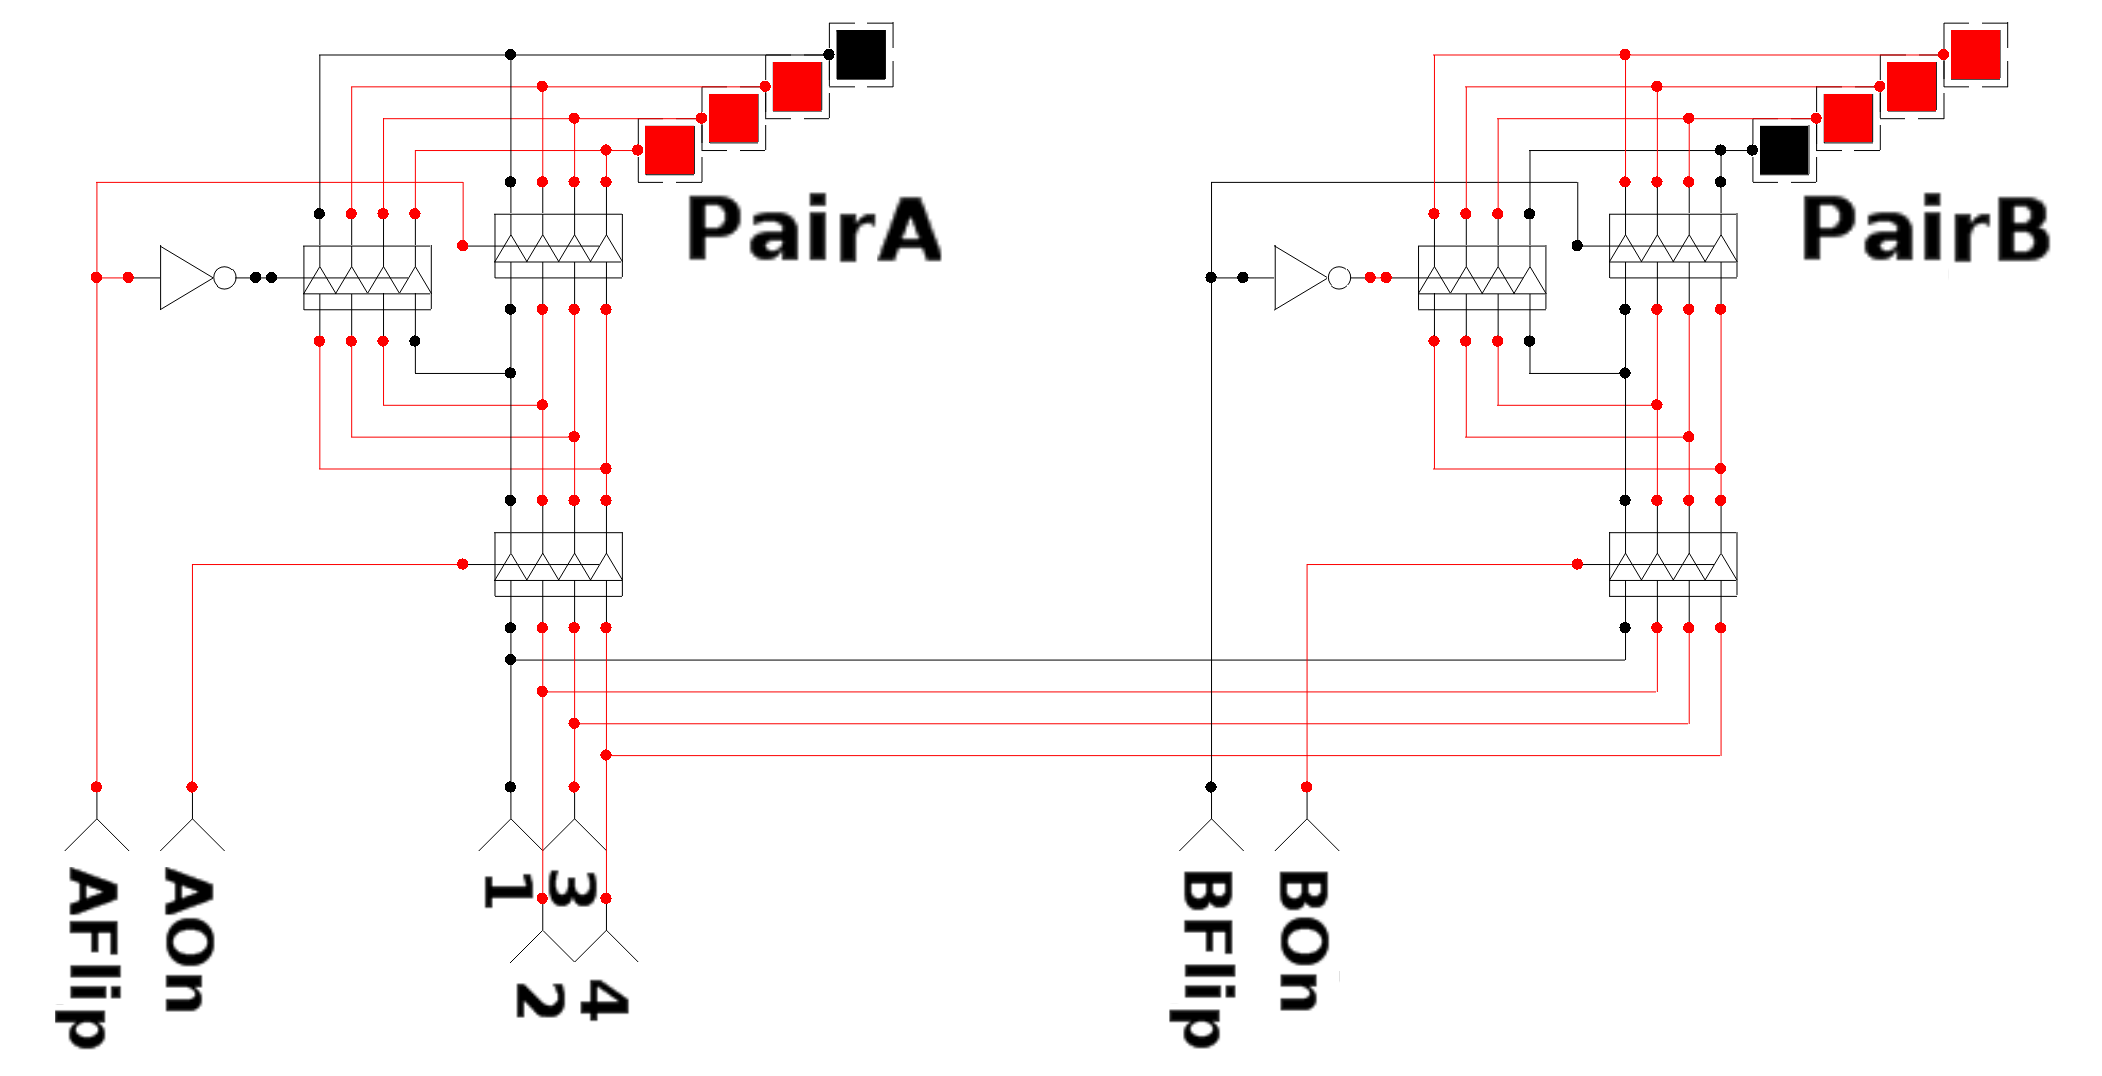
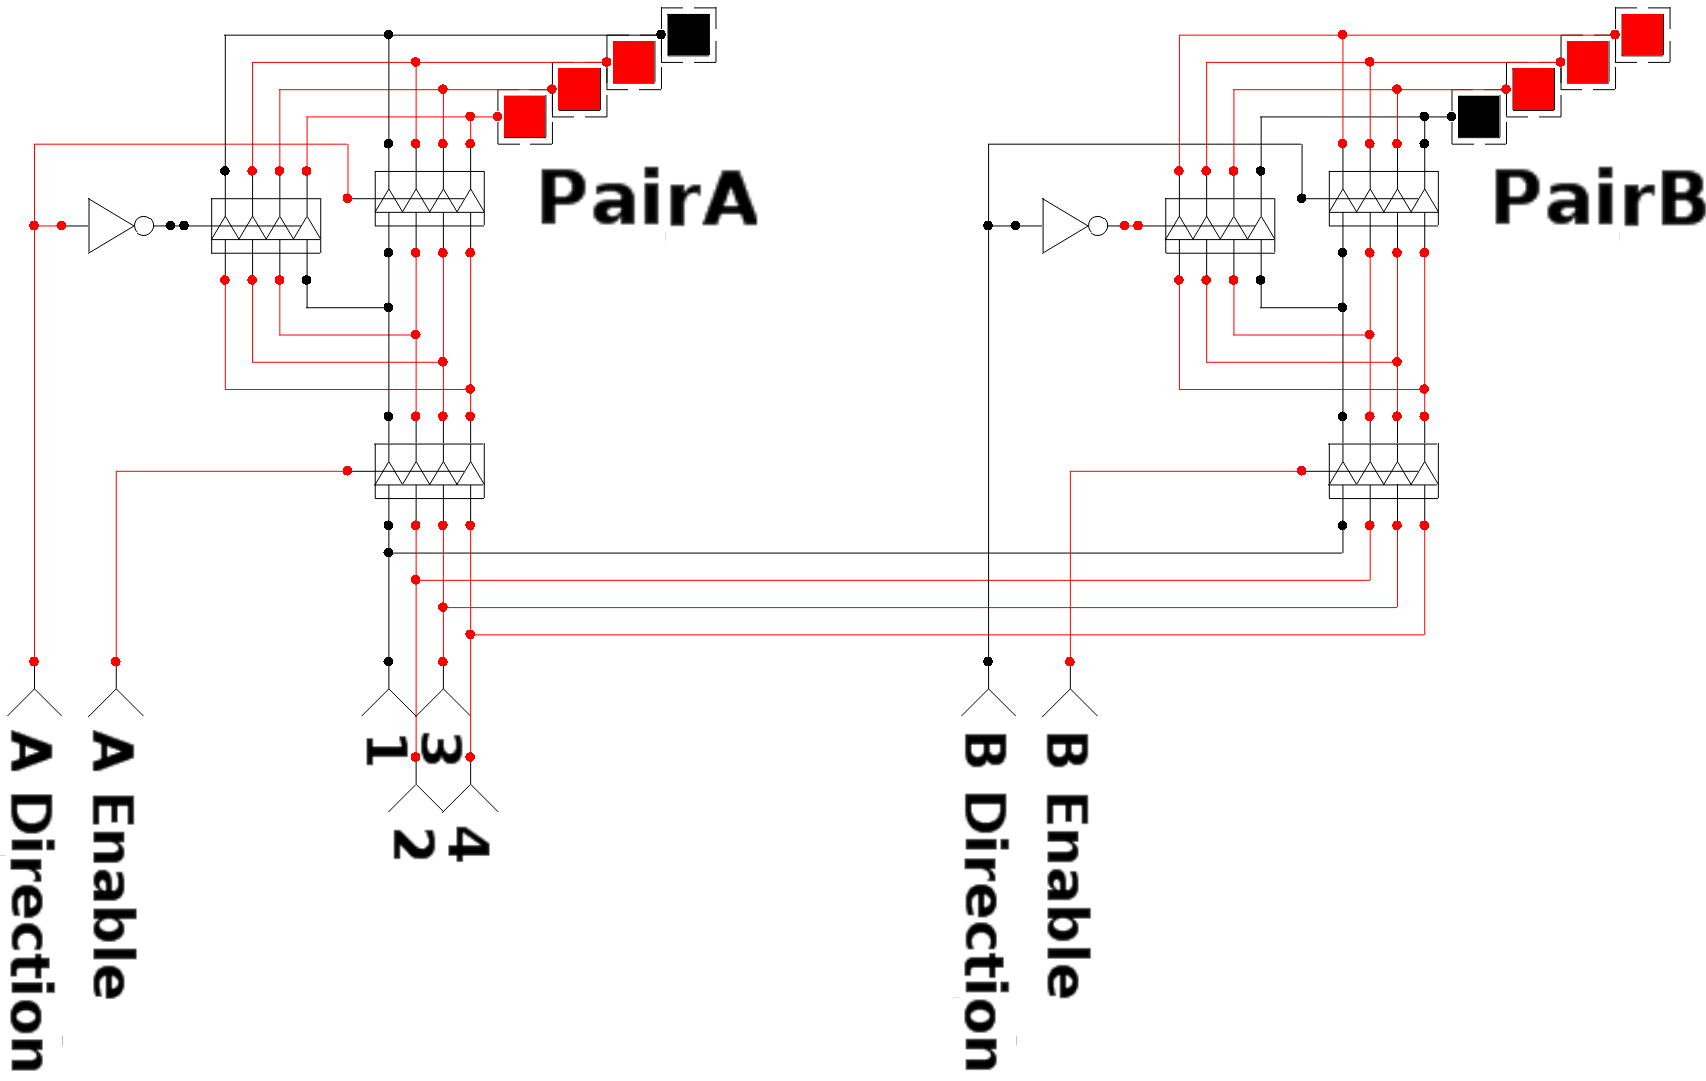
wrote some direction control

diff --git a/Report/sections/movement.tex b/Report/sections/movement.tex
@@ -467,20 +467,18 @@ thoroughly. The reason for this, was that we wanted to test the movement system 
 microcontroller in the beginning, specifically the MSP430, which had fewer pins available.
 
 
-Figure \ref{fig:mot_ctrl} represents a schematic of the movement circuit. We have used 6 Tri-State 
-buffers, 4 active high, and 2 active low. 
-%Table \ref{table:directions} explains which pairs need to be activated, and their rotational 
-%direction, in order to achieve the desired movement.
+Figure \ref{fig:mot_ctrl} represents a schematic of the movement circuit. We have used six Tri-State 
+buffers, four active high, and two active low. 
 \begin{figure}[htp]
 	\centering
-	\includegraphics[width=0.9\textwidth]{figures/move/direction_choice}
+	\includegraphics[width=0.8\textwidth]{figures/move/direction_choice}
 	\caption{Motor Control Circuit}
 	\label{fig:mot_ctrl}
 \end{figure}
 
-The 4 wires coming from the microcontroller, labeled '1', '2', '3' and '4' correspond to the stepping sequence.
-They are each connected to 2 Tri-State Buffer corresponding to each pair of motors. One pair of motors consists 
-of 2 motors. The pairs are represented in Figure \ref{fig:motor_pairs_location}.
+The four wires coming from the microcontroller, labeled '1', '2', '3' and '4' correspond to the stepping sequence.
+They are each connected to two Tri-State buffers corresponding to each pair of motors. One pair of motors consists 
+of two motors. The pairs are represented in Figure \ref{fig:motor_pairs_location}.
 
 \begin{figure}[htp]
 	\centering
@@ -488,30 +486,40 @@ of 2 motors. The pairs are represented in Figure \ref{fig:motor_pairs_location}.
 	\caption{Motor Pairs}
 	\label{fig:motor_pairs_location}
 \end{figure}
+
 \clearpage
-The first two Tri-State buffers, decide whether the pair is needed for moving in a specific 
-direction. When moving diagonally, only when pair of motors is needed at a time. Deciding 
-which direction the motors should spin in, is up to the following 2 Tri-State buffers, 
-one active-low and one active-high. Giving a ‘High’ signal, activates the active-high 
-buffer, and deactivates the active-low buffer. Giving a ‘Low’ signal, activates the 
-active-low buffer, and deactivates the active-high buffer. 
+The first two Tri-State buffers, decide whether the pair is needed for moving in 
+a specific direction. The input pins, labeled ‘A Enable’ and ‘B Enable’ go to the 
+two Tri-State buffers connected to each motor pair. 
 
-When spinning in one direction, the two opposite motors that make a pair, spin in opposite 
-directions. For example, when moving North-East, only Pair A moves. Motor labeled A spins 
-counter-clockwise, and motor labeled A’ moves clockwise. This was a necessity, considering the 
-placement of the wheels on the robot, and it was done by wiring one motor the other way around in 
-respect to the other.
+Afterwards, each buffer that enables the pair of motors 
+is connected to two buffers that decide the direction, one active-high and one active-low. 
+‘A Direction' decides the direction for ‘Pair A’, while ‘B Direction’ decides the direction 
+for ‘Pair B’.
 
-When spinning in one direction, the two opposite motors that make a pair, spin in opposite 
-directions. This is achieved by wiring the motors in reverse. Figure \ref{fig:reverse_wiring}
-represents the wiring of the motors.
+For example, when moving North-East, only ‘Pair A’ is needed. ‘A Enable’ will have a ‘High’ 
+signal while ‘B Enable’ will have a ‘Low’ signal. Next, by applying a ‘Low’ signal to ‘A Direction’, 
+reverses the wiring of the motors determining the robot move North-East. 
+
+Note that, when moving a specific direction, the opposing motors that form a pair, spin in different
+directions. One spins clockwise, while the other spins counter-clockwise. This was necessary, and was
+achieved by wiring one motor in reverse as shown in Figure \ref{fig:reverse_wiring}.
 \begin{figure}[htp]
 	\centering
-	\includegraphics[width=\textwidth]{figures/move/motor_pairs_cedar.png}
+	\includegraphics[width=0.8\textwidth]{figures/move/motor_pairs_cedar.png}
 	\caption{Motor Wiring in Reverse}
 	\label{fig:reverse_wiring}
 \end{figure}
-\begin{center}
+
+It is important to specify, that the robot moves in said directions using the same 
+programming only by maintaining the same
+orientation as in Figure \ref{fig:motor_pairs_location}.
+
+Tables \ref{tab:directions} and \ref{tab:directions_signal} represent the configurations 
+required for moving in any of the eight directions.
+\begin{table}[htp]
+	\centering
+	\caption{Directions}
 	\begin{tabular}{|l|l|l|}
 		\hline
 		Direction & Pair A & Pair B	\\
@@ -527,21 +535,27 @@ represents the wiring of the motors.
 		North-West & off & forward \\
 		\hline
 	\end{tabular}
+	\label{tab:directions}
+\end{table}
+
+\begin{table}[htp]
+	\centering
+	\caption{Direction Signals}
 	\begin{tabular}{|l|c|c|c|c|}
 		\hline
-		Direction & Aon & Aflip & Bon & Bflip \\
+		Direction & A Enable & A Direction & B Enable & B Direction \\
 		\hline
 		North & 1 & 0 & 1 & 0 \\
 		East 	& 1 & 0 & 1 & 1 \\
 		South & 1 & 1 & 1 & 1 \\
 		West 	& 1 & 1 & 1 & 0 \\
 		\hline
-		North-East & 1 & 0 & 0 & 1 \\
-		South-East & 0 & 1 & 1 & 0 \\
-		South-West & 1 & 1 & 0 & 1 \\
-		North-West & 0 & 1 & 1 & 1 \\
+		North-East & 1 & 0 & 0 & x \\
+		South-East & 0 & x & 1 & 0 \\
+		South-West & 1 & 1 & 0 & x \\
+		North-West & 0 & x & 1 & 1 \\
 		\hline
 	\end{tabular}
-	\captionof{table}{Directions}
-	\label{table:directions}
-\end{center}
+	\label{tab:directions_signal}
+\end{table}
+\vfill
